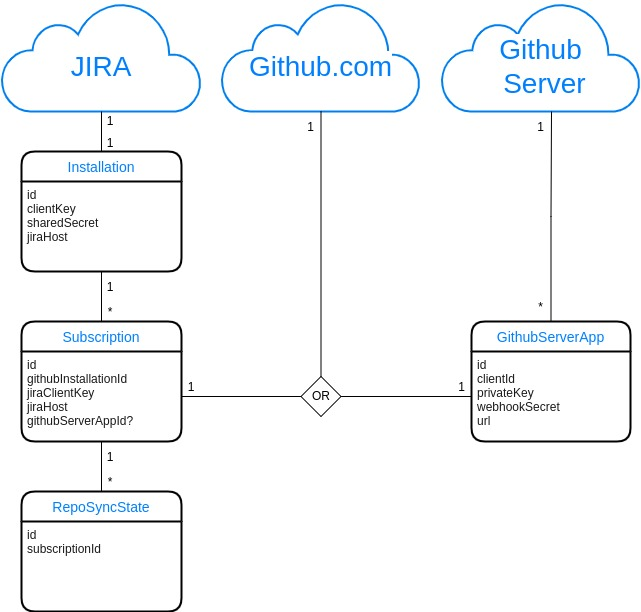
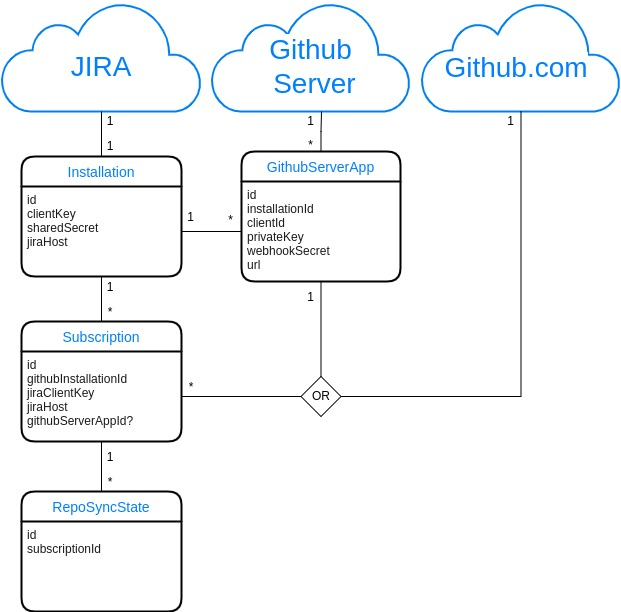
updating data model for GHE app security (#1245)
* updating data model for GHE app security

* forgot image

* updating based on PR comments

* exporting image

diff --git a/docs/data-model.md b/docs/data-model.md
@@ -13,7 +13,9 @@ Installations are only specific to the Jira app, 1 per Jira instance.  It holds 
 
 ### GitHubServerApp
 
-Each GitHub App created in a GitHub Enterprise Server instance is added to this table to keep track of them.  We do not hold the GitHub Cloud app in this table since we need it as a default, but still use the same data structure in the code.  Each App will have access to many Organizations under it and we much show all results to the users when needed, which means multiple API calls .
+Each GitHub App created in a GitHub Enterprise Server instance is added to this table to keep track of them.  A Github app _can only be associated with one Jira instance_ to limit access and prevent data leaking to the wrong customer.  This means that each new Jira instance needs to create at least one GHE app.
+
+Each App will have access to many Organizations under it and we much show all results to the users when needed, which means multiple API calls. We do not hold the GitHub Cloud app in this table since we need it as a default, but still use the same data structure in the code.  
 
 ### Subscription
 
